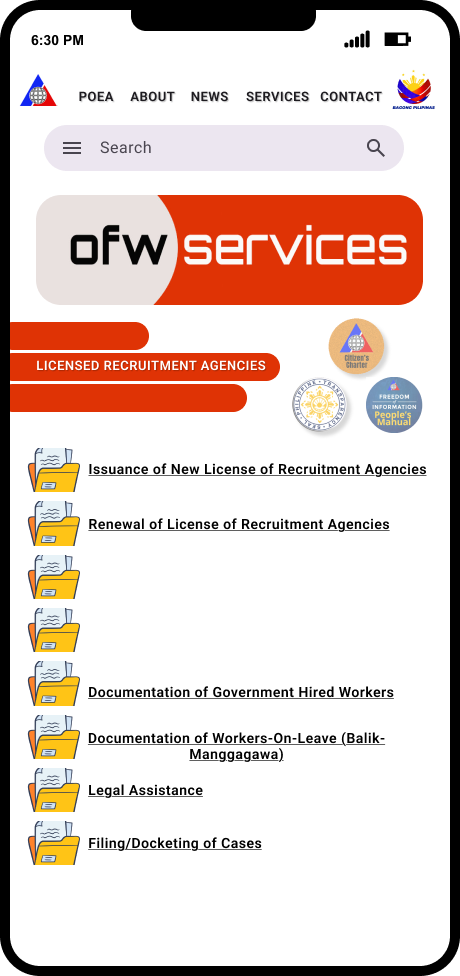
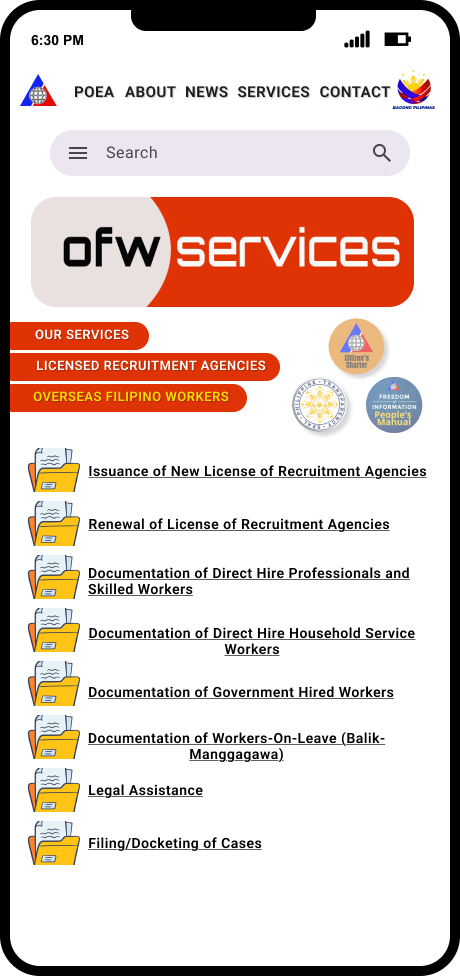
Add Lume design entry; add Designs count badge

diff --git a/js/data.js b/js/data.js
@@ -7,13 +7,16 @@
    No ES modules — plain script tag, exposes window.portfolioData.
 
    Designs update:
-     - Eighth and ninth design entries added: POEA Website Redesign —
-       Desktop (5 landscape screens) and POEA Website Redesign — Mobile
-       Web (2 portrait screens). Both point at the same Figma file.
+     - Tenth design entry added: Lume — Coffee Shop Mobile App, a
+       9-screen portrait design.
      - thumbVariant: "portrait" on gdrive-redesign, cardbank-redesign,
-       clinica-design, and poea-design-mobile. The others have no
-       thumbVariant — landscape default.
+       clinica-design, poea-design-mobile, and lume-design. Others are
+       landscape default.
      - Slideshow sizing is intrinsic. No aspectRatio field is used.
+
+   Sidebar count badges:
+     Designs is now included in COUNTED_SECTIONS (in _bootstrap.js) so
+     the sidebar shows a numeric badge: 10.
 
    Per-item thumbVariant resolution:
      js/render/_cards.js reads  item.thumbVariant || config.thumbVariant
@@ -402,21 +405,15 @@ const portfolioData = {
   ],
 
   /* ------------------------------------------------------------------------
-     DESIGNS — nine entries, all with slideshows and Figma links.
+     DESIGNS — ten entries, all with slideshows and Figma links.
 
-     - gdrive-redesign: portrait mobile, thumbVariant "portrait".
-     - chairable-design: landscape desktop, default.
-     - pila-pets-design: landscape desktop, default.
-     - cardbank-redesign: portrait mobile, thumbVariant "portrait".
-     - lynville-design: landscape desktop, default. Thumb = screen 3.
-     - dental-design: landscape desktop, default. Thumb = screen 3.
-     - clinica-design: portrait mobile, thumbVariant "portrait".
-     - poea-design-desktop: landscape desktop, default.
-     - poea-design-mobile: portrait mobile, thumbVariant "portrait".
+     Portrait mobile (thumbVariant "portrait"):
+       gdrive-redesign, cardbank-redesign, clinica-design,
+       poea-design-mobile, lume-design.
 
-     The two POEA entries share a Figma file but render as separate
-     cards and modals — one landscape (5 desktop pages), one portrait
-     (2 mobile web pages).
+     Landscape desktop (default):
+       chairable-design, pila-pets-design, lynville-design,
+       dental-design, poea-design-desktop.
 
      Slideshow sizing is intrinsic. No aspectRatio field is used.
      Design items carry figmaUrl only — no repoUrl / liveUrl.
@@ -577,11 +574,35 @@ const portfolioData = {
       date: "2025",
       images: [
         "assets/images/designs/poea-6-mobile-frontpage.png",
-        "assets/images/designs/poea-7-mobile-services.png"
+        "assets/images/designs/poea-7-mobile-services.png",
+        "assets/images/designs/poea-8-mobile-ira.png",
+        "assets/images/designs/poea-9-mobile-about.png",
+        "assets/images/designs/poea-10-mobile-contacts.png"
       ],
       thumbVariant: "portrait",
       thumb: "assets/images/designs/poea-6-mobile-frontpage.png",
       figmaUrl: "https://www.figma.com/design/Mfm4FYo5bFc6JNC9lug9LH/poea-redesign-web-mobile?node-id=0-1&t=RDaPTR9wy7qfseX0-1"
+    },
+    {
+      id: "lume-design",
+      name: "Lume — Coffee Shop Mobile App",
+      type: "Mobile UI / UX",
+      description: "A mobile app design for Lume, a specialty coffee shop. The design covers the full customer journey — splash, immersive hero, home with featured items, search results, product detail with customization, cart, and live order tracking. A central part of the exercise was exploring the same core screens across four named color palettes (Monochrome, Complementary, Analogous, and Triadic) to demonstrate a themable design system grounded in color theory.",
+      date: "2025",
+      images: [
+        "assets/images/designs/lume-1-splash.png",
+        "assets/images/designs/lume-2-hero.png",
+        "assets/images/designs/lume-3-home.png",
+        "assets/images/designs/lume-4-search.png",
+        "assets/images/designs/lume-5-product.png",
+        "assets/images/designs/lume-6-cart.png",
+        "assets/images/designs/lume-7-tracking.png",
+        "assets/images/designs/lume-8-home-complimentary.png",
+        "assets/images/designs/lume-9-home-triadic.png"
+      ],
+      thumbVariant: "portrait",
+      thumb: "assets/images/designs/lume-1-splash.png",
+      figmaUrl: "https://www.figma.com/design/3hoEkYbBu5whMy7hxrMebq/lume-coffee-mobile?node-id=0-1&t=LW9j9BxAVLd7vIMZ-1"
     }
   ],
 

diff --git a/js/render/_bootstrap.js b/js/render/_bootstrap.js
@@ -66,7 +66,7 @@
   // can be counted. Designs is excluded because it holds a single
   // project whose name is already unique — a "1" badge would be noise.
   // About and Contact are excluded because they aren't list-backed.
-  const COUNTED_SECTIONS = ["projects", "certifications", "experience", "trainings"];
+  const COUNTED_SECTIONS = ["projects", "certifications", "experience", "designs", "trainings"];
 
   const MOBILE_TAB_SECTIONS = ["projects", "certifications", "experience"];
   const SECTIONS_WITH_CHIPS = ["projects"];
